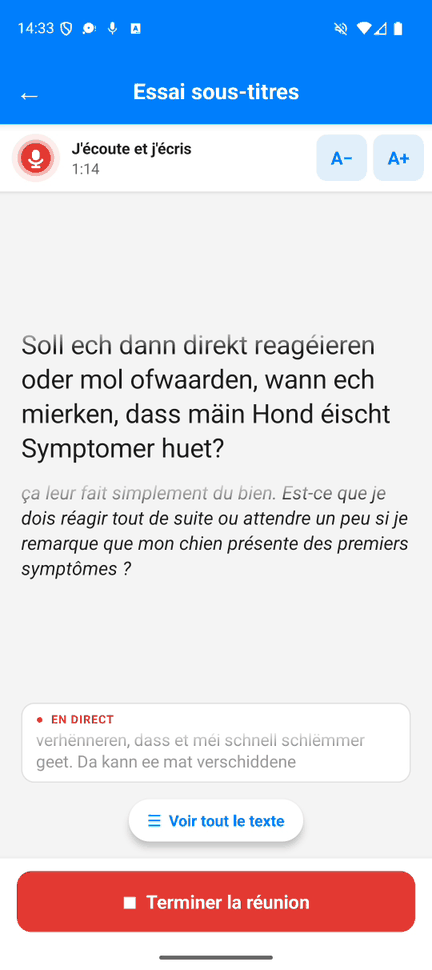
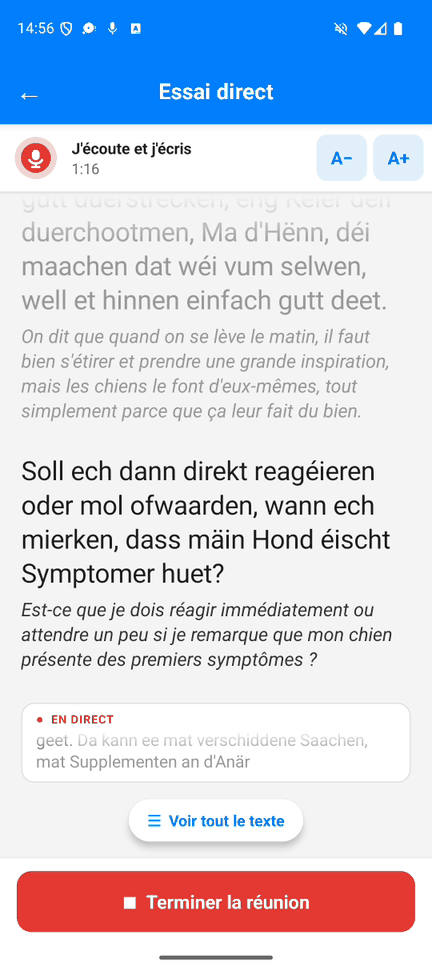
docs(labs): le direct de l'application Réunion, un bloc par phrase
GIF et capture du direct refaits avec la nouvelle hiérarchie.

Claude-Session: https://claude.ai/code/session_014RSiXDTCkmup4xTZaRNZBW

diff --git a/docs/labs-transcription.html b/docs/labs-transcription.html
@@ -567,7 +567,7 @@ footer.page{margin-top:48px;padding-top:18px;border-top:1px solid var(--line);
   </figure>
   <figure class="app-gif">
     <img src="Screenshots/reunion_sous_titres.gif" width="360" height="850" loading="lazy"
-         alt="Animation de l'écran du direct en sous-titres : un micro rouge pulse avec la voix ; au centre, chaque phrase luxembourgeoise en grand et sa traduction française en petit dessous apparaissent ensemble, la plus récente en noir ; en bas, un bandeau « En direct » où les mots s'écrivent au moment où ils sont dits"
+         alt="Animation de l'écran du direct en sous-titres : un micro rouge pulse avec la voix ; au début, « Les phrases s'afficheront ici avec leur traduction » ; puis un bloc par phrase, le luxembourgeois en grand et sa traduction française juste dessous, le plus récent en noir, les anciens grisés qui remontent ; en bas, l'encadré « En direct » où les mots s'écrivent au moment où ils sont dits"
          data-i18n-alt="app-gif2-alt">
     <figcaption data-i18n="app-gif2-cap">Pendant la réunion : chaque phrase avec sa traduction, et les mots en direct en bas.</figcaption>
   </figure>
@@ -782,7 +782,7 @@ footer.page{margin-top:48px;padding-top:18px;border-top:1px solid var(--line);
     'app-gif-cap': 'A recording’s journey, from the file to the minutes.',
     'app-gif-alt': 'Five-screen animation of the Lëtzebuergesch Réunion app: 1. the home screen, with “Réunion en direct” (live meeting) and “Un enregistrement” (a recording); 2. the chosen file, its title and three participants; 3. progress, “transcription, about 1 min left”; 4. the transcript, each line preceded by its timing and its speaker (Locuteur 1, 2, 3); 5. the summary of the minutes',
     'app-gif2-cap': 'During the meeting: each sentence with its translation, and the live words at the bottom.',
-    'app-gif2-alt': 'Animation of the live screen in subtitle mode: a red microphone pulses with the voice; in the middle, each Luxembourgish sentence in large type and its French translation in small type below appear together, the latest in black; at the bottom, a “live” strip where words are written as they are spoken',
+    'app-gif2-alt': 'Animation of the live screen in subtitle mode: a red microphone pulses with the voice; at first, “sentences will appear here with their translation”; then one block per sentence, the Luxembourgish in large type with its French translation right below, the latest in black, older ones greyed and moving up; at the bottom, the “live” box where words are written as they are spoken',
     'app-gif3-cap': 'At the end: the minutes write themselves before your eyes.',
     'app-gif3-alt': 'Animation of the minutes being written: “Rédaction du compte rendu…” (writing the minutes), then the text appears section by section (summary, points discussed) until the minutes are ready to read',
     'app-qr-alt': 'QR code leading to the download of the Lëtzebuergesch Réunion app',
